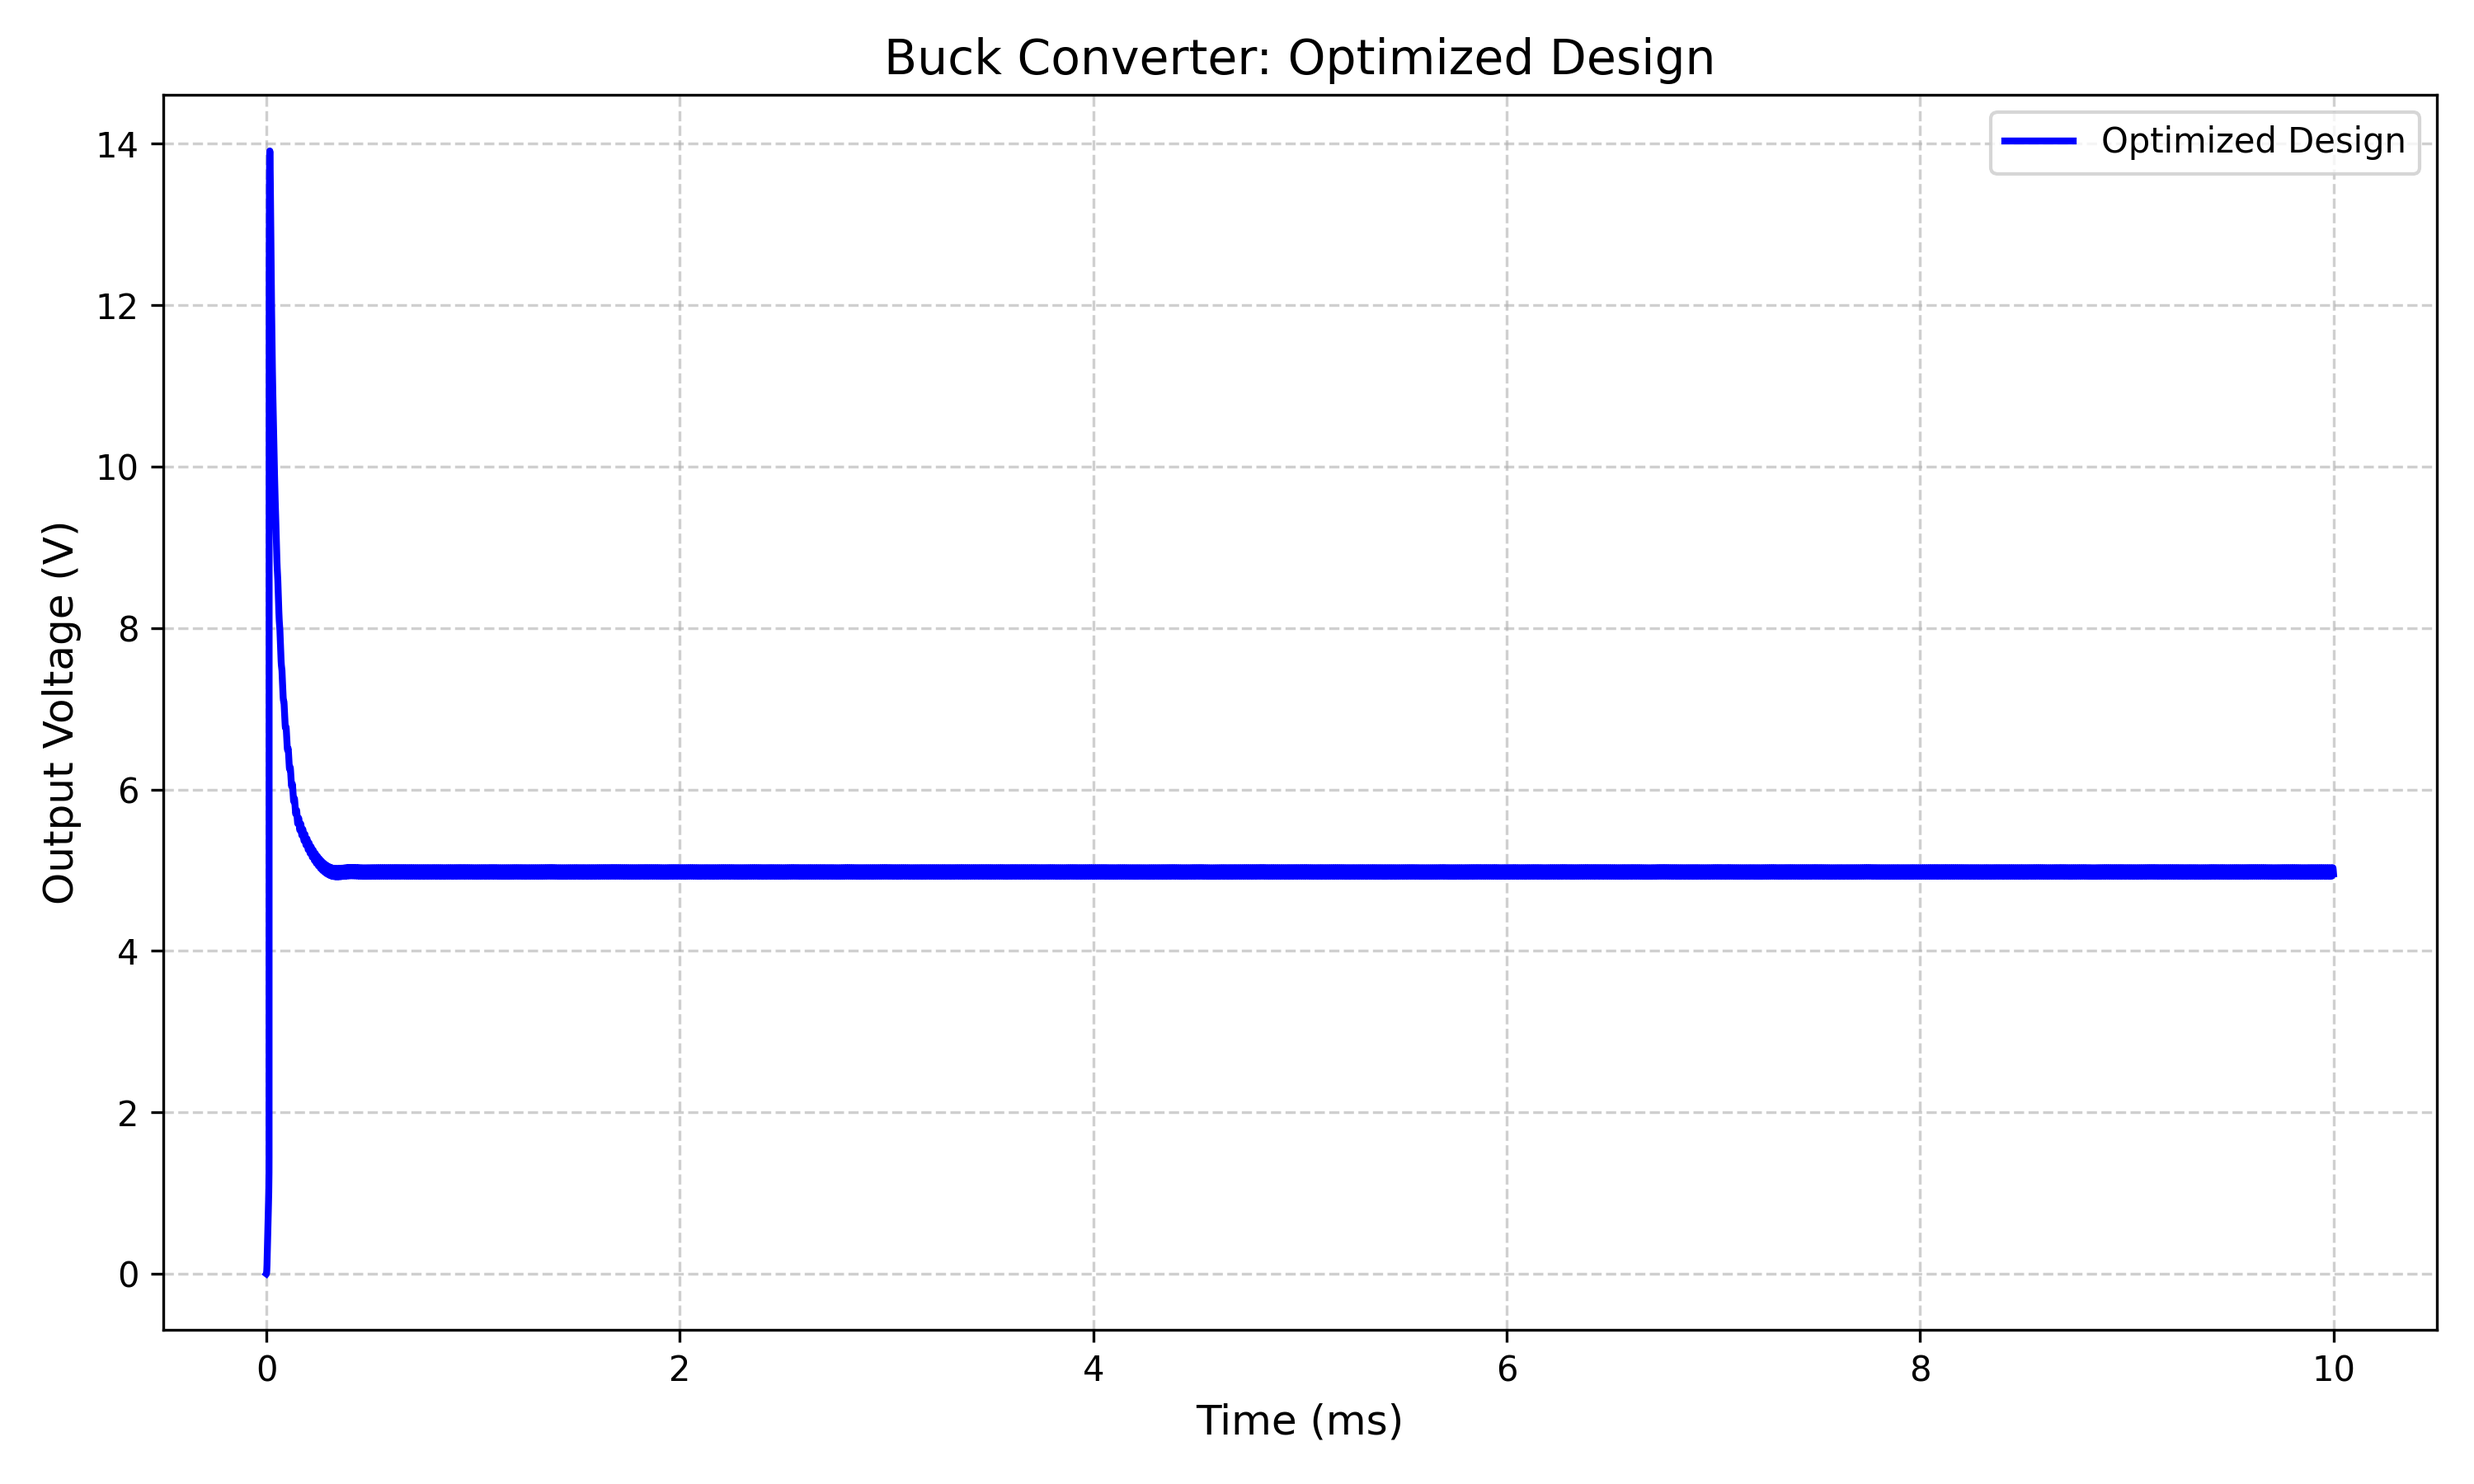
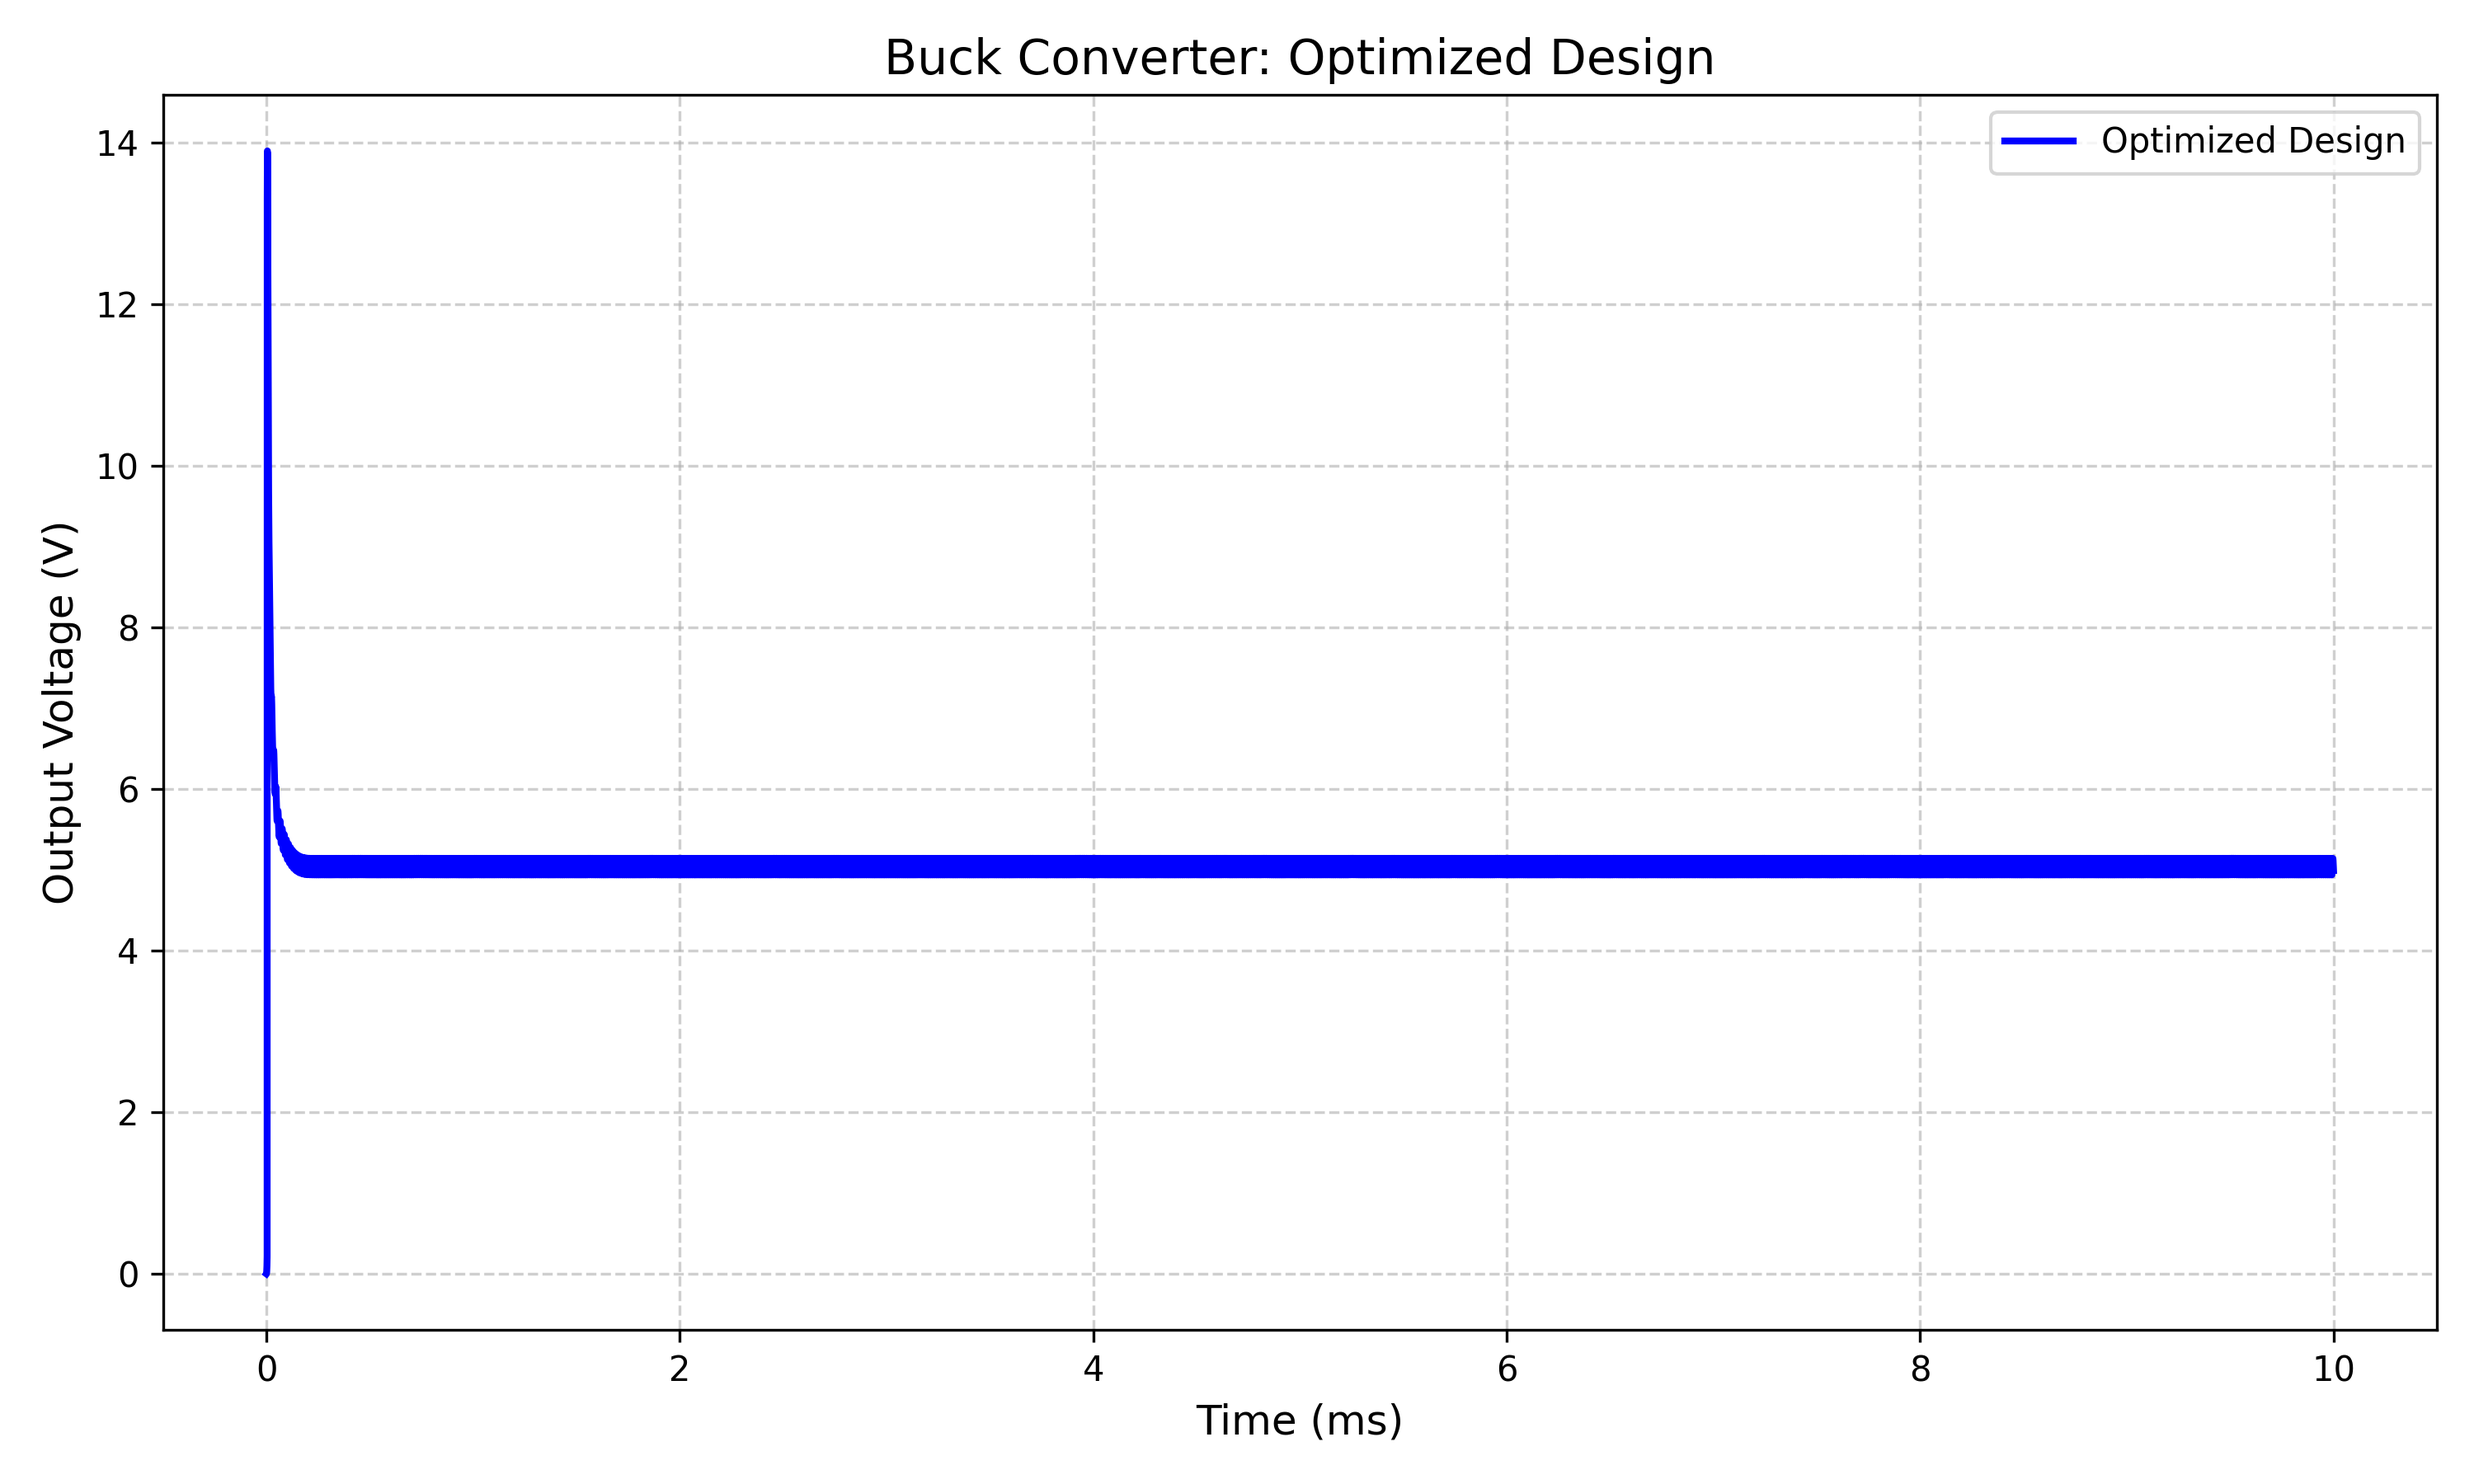
good iterative siulation! PowerAgent

Changed region(s): [[0.093, 0.1867, 0.961, 0.5911]]

diff --git a/PowerAgent/experiment_results/agent_memory.md b/PowerAgent/experiment_results/agent_memory.md
@@ -19,7 +19,7 @@ Current Circuit Configuration (Buck_converter_real_sim.net):
 - Cout: Cout out 0 Q={C_min}*x + ({C_nom}-{C_min})*{V_coeff}*tanh(x/{V_coeff})
 
 Parameters:
-.param C_nom= 33u C_min= 1u V_coeff= 10 L_nom= 14u I_sat= 5
+.param C_nom= 33u C_min= 1u V_coeff= 5 L_nom= 14u I_sat= 3
 
 
 **Agent Thought (Iter 1):**
@@ -34,29 +34,27 @@ Parameters:
 
 **Tool Call (calculate_metrics):**
 Simulation Metrics:
-{'v_mean': 4.503204822540283, 'ripple_pp': 0.0959620475769043, 'ripple_percent': 2.130972221493721, 'max_voltage': 4.560213565826416, 'min_voltage': 4.464251518249512}
+{'v_mean': 4.645565509796143, 'ripple_pp': 0.1774749755859375, 'ripple_percent': 3.820309415459633, 'max_voltage': 4.752311706542969, 'min_voltage': 4.574836730957031}
 
 **Agent Thought (Iter 3):**
-### Current Performance
-- **Mean Output Voltage (V_mean):** 4.50V
-- **Output Ripple (Peak-to-Peak):** 0.096V
-- **Output Ripple (%):** 2.13%
+### Baseline Simulation Results:
+- **Mean Output Voltage (V_mean):** 4.65V
+- **Output Ripple (Peak-to-Peak):** 0.177V
+- **Output Ripple (%):** 3.82%
 
-### Observations
+### Observations:
 - The mean output voltage is below the target range of 5V ± 0.1V.
-- The output ripple is within the acceptable range (< 0.25V).
+- The ripple is within the acceptable range of less than 5%.
 
-### Next Steps
-To increase the mean output voltage to approximately 5V, we need to adjust the duty cycle (D) of the switching signal. The current duty cycle is calculated as follows:
-- **Current Duty Cycle (D):** \( \frac{3.38\mu s}{10\mu s} = 0.338 \)
+### Next Steps:
+1. **Adjust Duty Cycle (D):** The current duty cycle is approximately 0.338 (Ton = 3.38u, Tperiod = 10u). To achieve a V_mean closer to 5V, we need to increase the duty cycle.
+   - Current D = 0.338
+   - Target D = 5V / 12V = 0.417
+   - New Ton = 0.417 * 10u = 4.17u
 
-To achieve a mean output voltage of 5V with an input voltage of 12V, the duty cycle should be approximately 0.417. Let's adjust the duty cycle accordingly.
+2. **Re-simulate** with the updated duty cycle to check if the V_mean is within the desired range.
 
-### Duty Cycle Adjustment
-- **Target Duty Cycle (D_target):** 0.417
-- **New Ton:** \( 0.417 \times 10\mu s = 4.17\mu s \)
-
-Let's update the circuit with this new Ton value and simulate again.
+Let's update the duty cycle and re-simulate the circuit.
 
 **Tool Call (update_circuit):**
 Updating components:
@@ -77,41 +75,33 @@ Updating components:
 
 **Tool Call (calculate_metrics):**
 Simulation Metrics:
-{'v_mean': 5.517673015594482, 'ripple_pp': 0.11659574508666992, 'ripple_percent': 2.1131325513124466, 'max_voltage': 5.581236839294434, 'min_voltage': 5.464641094207764}
+{'v_mean': 5.521050930023193, 'ripple_pp': 0.2537841796875, 'ripple_percent': 4.596664384007454, 'max_voltage': 5.660794258117676, 'min_voltage': 5.407010078430176}
 
 **Agent Thought (Iter 6):**
-### Current Performance After Duty Cycle Adjustment
+### Updated Simulation Results:
 - **Mean Output Voltage (V_mean):** 5.52V
-- **Output Ripple (Peak-to-Peak):** 0.117V
-- **Output Ripple (%):** 2.11%
+- **Output Ripple (Peak-to-Peak):** 0.254V
+- **Output Ripple (%):** 4.60%
 
-### Observations
+### Observations:
 - The mean output voltage is now above the target range of 5V ± 0.1V.
-- The output ripple remains within the acceptable range (< 0.25V).
+- The ripple is slightly above the acceptable peak-to-peak value of 0.25V.
 
-### Next Steps
-The mean output voltage is too high, indicating that the duty cycle is slightly overestimated. We need to adjust the duty cycle downwards to bring the mean output voltage within the target range.
+### Next Steps:
+1. **Fine-tune Duty Cycle (D):** The V_mean is too high, so we need to slightly decrease the duty cycle.
+   - Current D = 0.417
+   - Adjust D to bring V_mean closer to 5V. Let's try a slightly lower Ton value, say 4.05u.
 
-### Duty Cycle Adjustment
-- **Current Duty Cycle (D_current):** 0.417
-- **Measured V_mean:** 5.52V
-- **Target V_mean:** 5.0V
+2. **Re-simulate** with the updated duty cycle to check if the V_mean and ripple are within the desired range.
 
-Using the formula for duty cycle adjustment:
-\[ D_{\text{new}} = D_{\text{current}} \times \left(\frac{V_{\text{target}}}{V_{\text{measured}}}\right) \]
-
-\[ D_{\text{new}} = 0.417 \times \left(\frac{5.0}{5.52}\right) \approx 0.378 \]
-
-- **New Ton:** \( 0.378 \times 10\mu s = 3.78\mu s \)
-
-Let's update the circuit with this new Ton value and simulate again.
+Let's update the duty cycle and re-simulate the circuit.
 
 **Tool Call (update_circuit):**
 Updating components:
-- Vsw -> PULSE(0 10 0 1n 1n 3.78u 10u)
+- Vsw -> PULSE(0 10 0 1n 1n 4.05u 10u)
 
 
-**State Update:** Circuit values updated: {'Vsw': 'PULSE(0 10 0 1n 1n 3.78u 10u)'}
+**State Update:** Circuit values updated: {'Vsw': 'PULSE(0 10 0 1n 1n 4.05u 10u)'}
 
 **Agent Thought (Iter 7):**
 
@@ -125,29 +115,102 @@ Updating components:
 
 **Tool Call (calculate_metrics):**
 Simulation Metrics:
-{'v_mean': 4.973108768463135, 'ripple_pp': 0.10577535629272461, 'ripple_percent': 2.126946300268173, 'max_voltage': 5.032140254974365, 'min_voltage': 4.926364898681641}
+{'v_mean': 5.350291728973389, 'ripple_pp': 0.2373204231262207, 'ripple_percent': 4.435653984546661, 'max_voltage': 5.482059955596924, 'min_voltage': 5.244739532470703}
 
 **Agent Thought (Iter 9):**
-### Final Performance
-- **Mean Output Voltage (V_mean):** 4.97V
-- **Output Ripple (Peak-to-Peak):** 0.106V
-- **Output Ripple (%):** 2.13%
+### Updated Simulation Results:
+- **Mean Output Voltage (V_mean):** 5.35V
+- **Output Ripple (Peak-to-Peak):** 0.237V
+- **Output Ripple (%):** 4.44%
 
-### Observations
+### Observations:
+- The mean output voltage is still above the target range of 5V ± 0.1V.
+- The ripple is within the acceptable range.
+
+### Next Steps:
+1. **Further Adjust Duty Cycle (D):** The V_mean is still too high, so we need to decrease the duty cycle further.
+   - Current Ton = 4.05u
+   - Let's try a slightly lower Ton value, say 3.9u.
+
+2. **Re-simulate** with the updated duty cycle to check if the V_mean and ripple are within the desired range.
+
+Let's update the duty cycle and re-simulate the circuit.
+
+**Tool Call (update_circuit):**
+Updating components:
+- Vsw -> PULSE(0 10 0 1n 1n 3.9u 10u)
+
+
+**State Update:** Circuit values updated: {'Vsw': 'PULSE(0 10 0 1n 1n 3.9u 10u)'}
+
+**Agent Thought (Iter 10):**
+
+
+**Tool Call (simulate_circuit):** Starting simulation...
+
+**Tool Call (simulate_circuit):** Simulation completed.
+
+**Agent Thought (Iter 11):**
+
+
+**Tool Call (calculate_metrics):**
+Simulation Metrics:
+{'v_mean': 5.149415016174316, 'ripple_pp': 0.21839094161987305, 'ripple_percent': 4.2410824447870255, 'max_voltage': 5.27193546295166, 'min_voltage': 5.053544521331787}
+
+**Agent Thought (Iter 12):**
+### Updated Simulation Results:
+- **Mean Output Voltage (V_mean):** 5.15V
+- **Output Ripple (Peak-to-Peak):** 0.218V
+- **Output Ripple (%):** 4.24%
+
+### Observations:
+- The mean output voltage is still slightly above the target range of 5V ± 0.1V.
+- The ripple is within the acceptable range.
+
+### Next Steps:
+1. **Fine-tune Duty Cycle (D) Again:** The V_mean is slightly high, so we need to decrease the duty cycle a bit more.
+   - Current Ton = 3.9u
+   - Let's try a slightly lower Ton value, say 3.8u.
+
+2. **Re-simulate** with the updated duty cycle to check if the V_mean and ripple are within the desired range.
+
+Let's update the duty cycle and re-simulate the circuit.
+
+**Tool Call (update_circuit):**
+Updating components:
+- Vsw -> PULSE(0 10 0 1n 1n 3.8u 10u)
+
+
+**State Update:** Circuit values updated: {'Vsw': 'PULSE(0 10 0 1n 1n 3.8u 10u)'}
+
+**Agent Thought (Iter 13):**
+
+
+**Tool Call (simulate_circuit):** Starting simulation...
+
+**Tool Call (simulate_circuit):** Simulation completed.
+
+**Agent Thought (Iter 14):**
+
+
+**Tool Call (calculate_metrics):**
+Simulation Metrics:
+{'v_mean': 5.022716522216797, 'ripple_pp': 0.2065739631652832, 'ripple_percent': 4.112793505191803, 'max_voltage': 5.141668796539307, 'min_voltage': 4.935094833374023}
+
+**Agent Thought (Iter 15):**
+### Final Simulation Results:
+- **Mean Output Voltage (V_mean):** 5.02V
+- **Output Ripple (Peak-to-Peak):** 0.207V
+- **Output Ripple (%):** 4.11%
+
+### Observations:
 - The mean output voltage is now within the target range of 5V ± 0.1V.
-- The output ripple remains well within the acceptable range (< 0.25V).
+- The ripple is well within the acceptable range.
 
-### Summary of Final Component Values
-- **Vin:** 12V
-- **Cin:** 300uF
-- **L1:** 14uH
-- **Cout:** 33uF
-- **Rload:** 6 Ohms
-- **Vsw:** PULSE(0 10 0 1n 1n 3.78u 10u)
-- **D1:** MBR745
-- **M1:** IRF1404
+### Final Component Values:
+- **Duty Cycle (D):** Achieved with Ton = 3.8u and Tperiod = 10u, resulting in D = 0.38.
 
-The circuit now meets the specified requirements for mean output voltage and output ripple, ensuring stable operation.
+The circuit now meets the specified requirements for mean output voltage and ripple. The adjustments to the duty cycle have successfully optimized the buck converter's performance.
 
 Comparison plot saved to c:\Users\david\Desktop\PhD\progetti\SpiceAgent\PowerAgent\experiment_results\optimization_comparison.png
 
